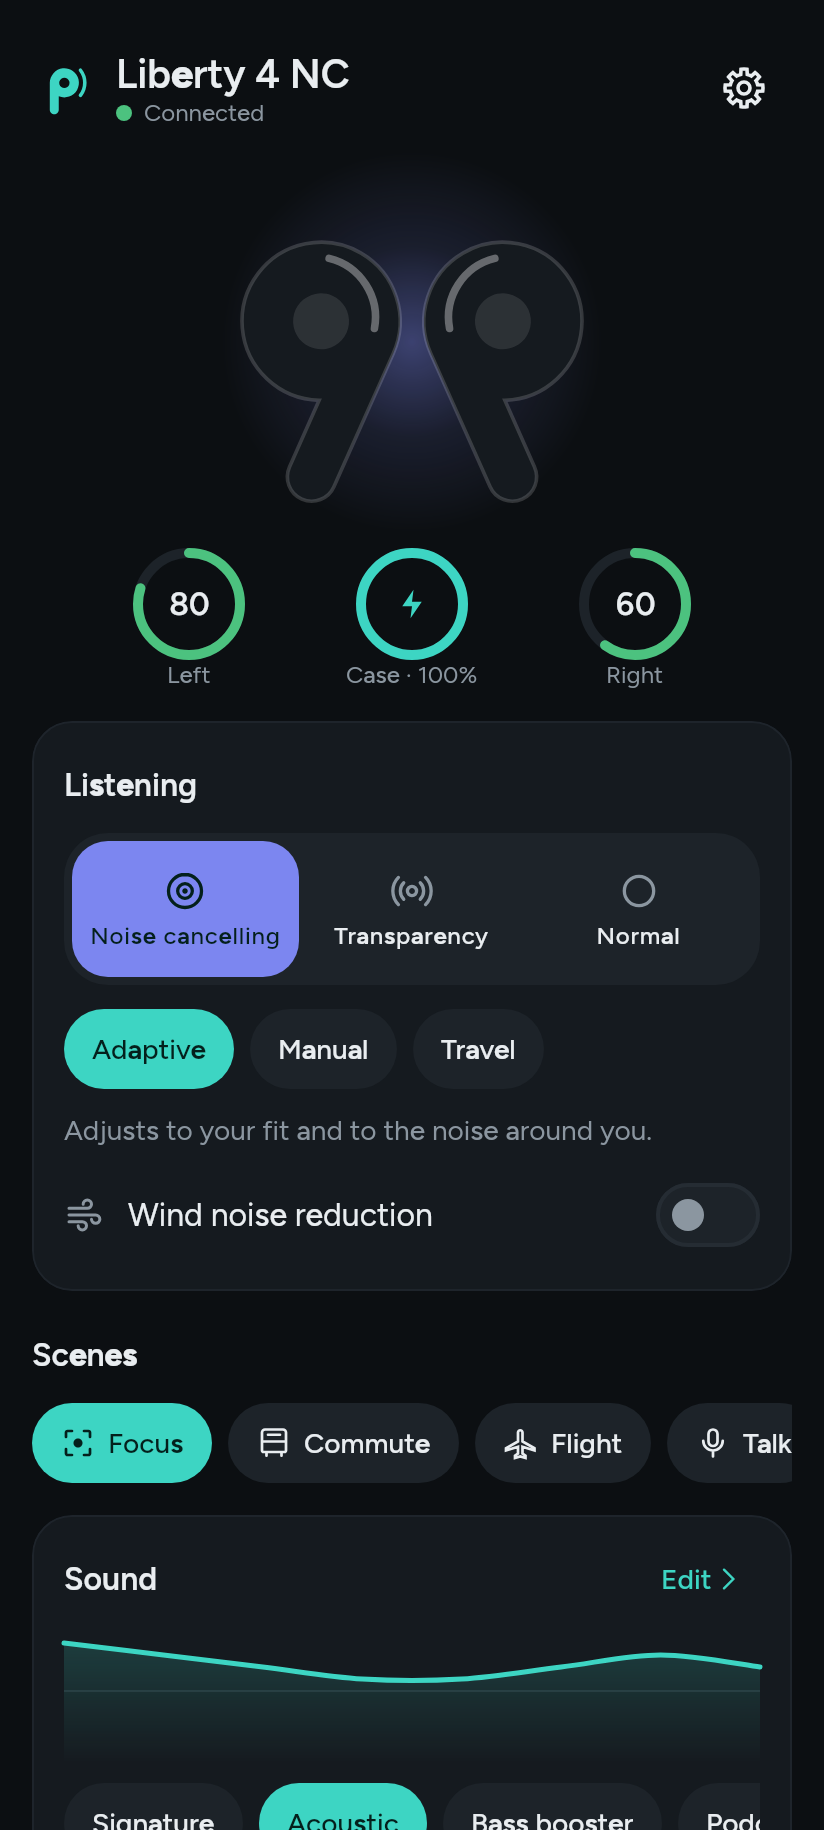
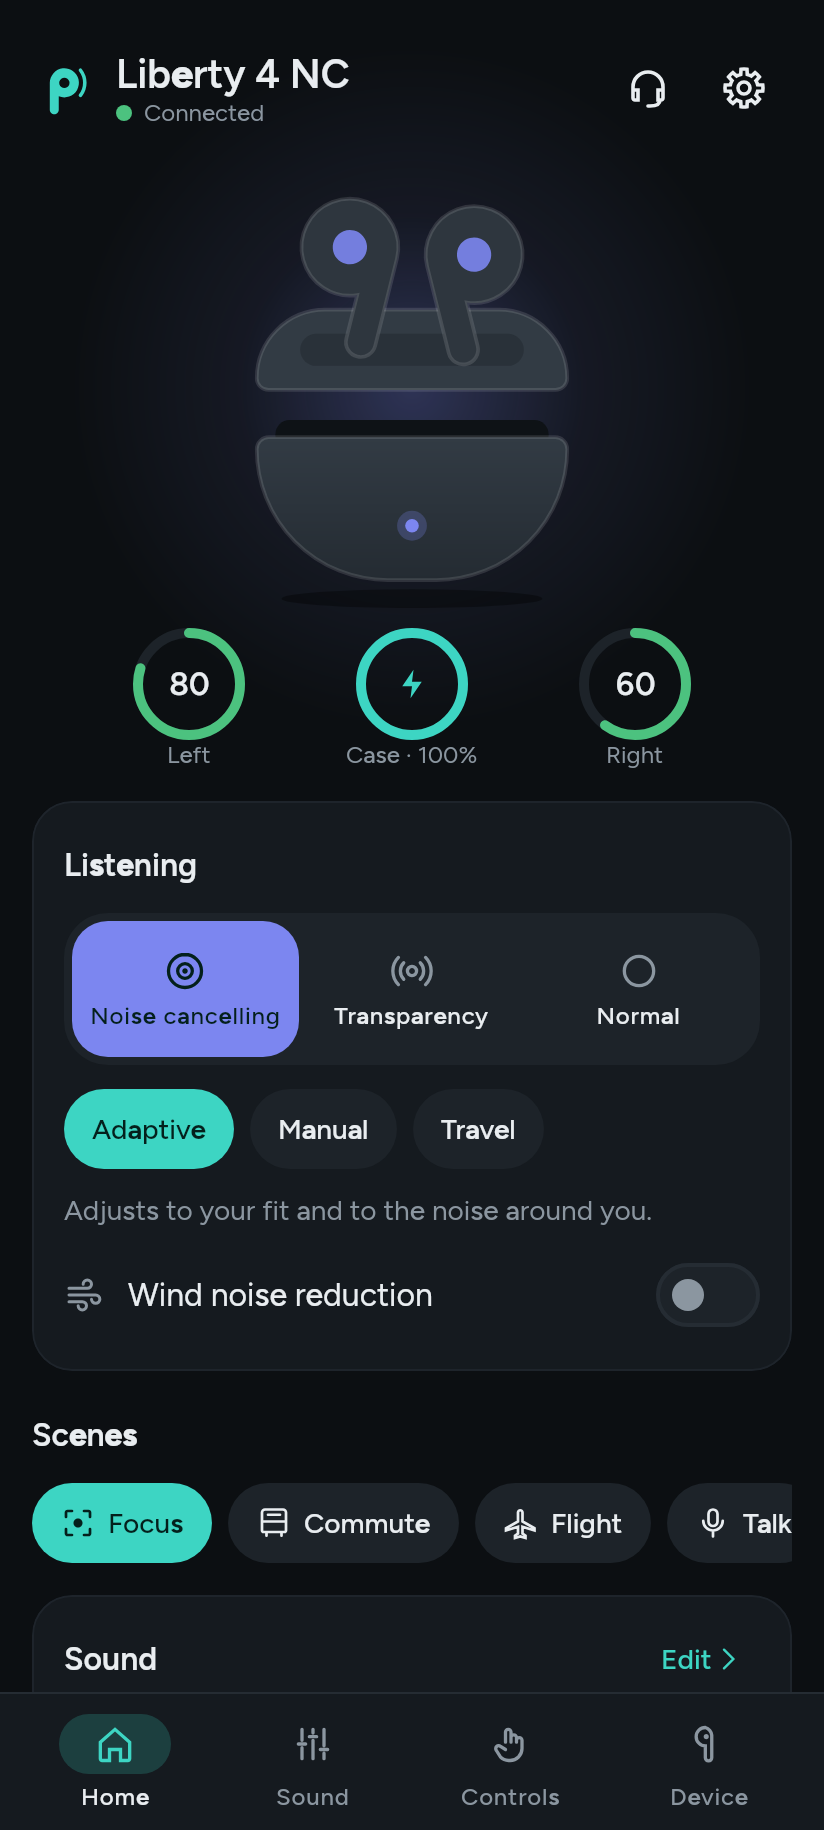
Screenshots: the new pages

diff --git a/ui/src/jvmTest/kotlin/com/blazify/buds/ui/Shots.kt b/ui/src/jvmTest/kotlin/com/blazify/buds/ui/Shots.kt
@@ -7,6 +7,7 @@ import androidx.compose.ui.unit.Density
 import androidx.compose.ui.use
 import com.blazify.buds.core.demo.DemoBuds
 import com.blazify.buds.ui.screens.Place
+import com.blazify.buds.ui.screens.Tab
 import com.blazify.buds.ui.screens.QuickPanel
 import com.blazify.buds.ui.theme.BudsTheme
 import com.blazify.buds.ui.theme.ThemeChoice
@@ -39,9 +40,12 @@ class Shots {
             val look = theme.name.lowercase()
             shot(dir, "home-phone-$look", 412, 915) { BudsApp(DemoBuds(), prefs(theme)) }
             shot(dir, "home-desktop-$look", 1180, 820) { BudsApp(DemoBuds(), prefs(theme)) }
-            shot(dir, "sound-phone-$look", 412, 915) { BudsApp(DemoBuds(), prefs(theme), Place.Equalizer) }
+            shot(dir, "sound-phone-$look", 412, 915) { BudsApp(DemoBuds(), prefs(theme), startTab = Tab.Sound) }
+            shot(dir, "controls-phone-$look", 412, 915) { BudsApp(DemoBuds(), prefs(theme), startTab = Tab.Controls) }
+            shot(dir, "device-phone-$look", 412, 915) { BudsApp(DemoBuds(), prefs(theme), startTab = Tab.Device) }
             shot(dir, "earbuds-phone-$look", 412, 915) { BudsApp(DemoBuds(), prefs(theme), Place.Earbuds) }
-            shot(dir, "controls-phone-$look", 412, 915) { BudsApp(DemoBuds(), prefs(theme), Place.Controls) }
+            shot(dir, "add-phone-$look", 412, 915) { BudsApp(DemoBuds(), prefs(theme), Place.Add) }
+            shot(dir, "help-phone-$look", 412, 915) { BudsApp(DemoBuds(), prefs(theme), Place.Support) }
             shot(dir, "panel-$look", 360, 330) {
                 val buds = remember { DemoBuds() }
                 BudsTheme(theme) { QuickPanel(buds.state.value, {}, {}) }
